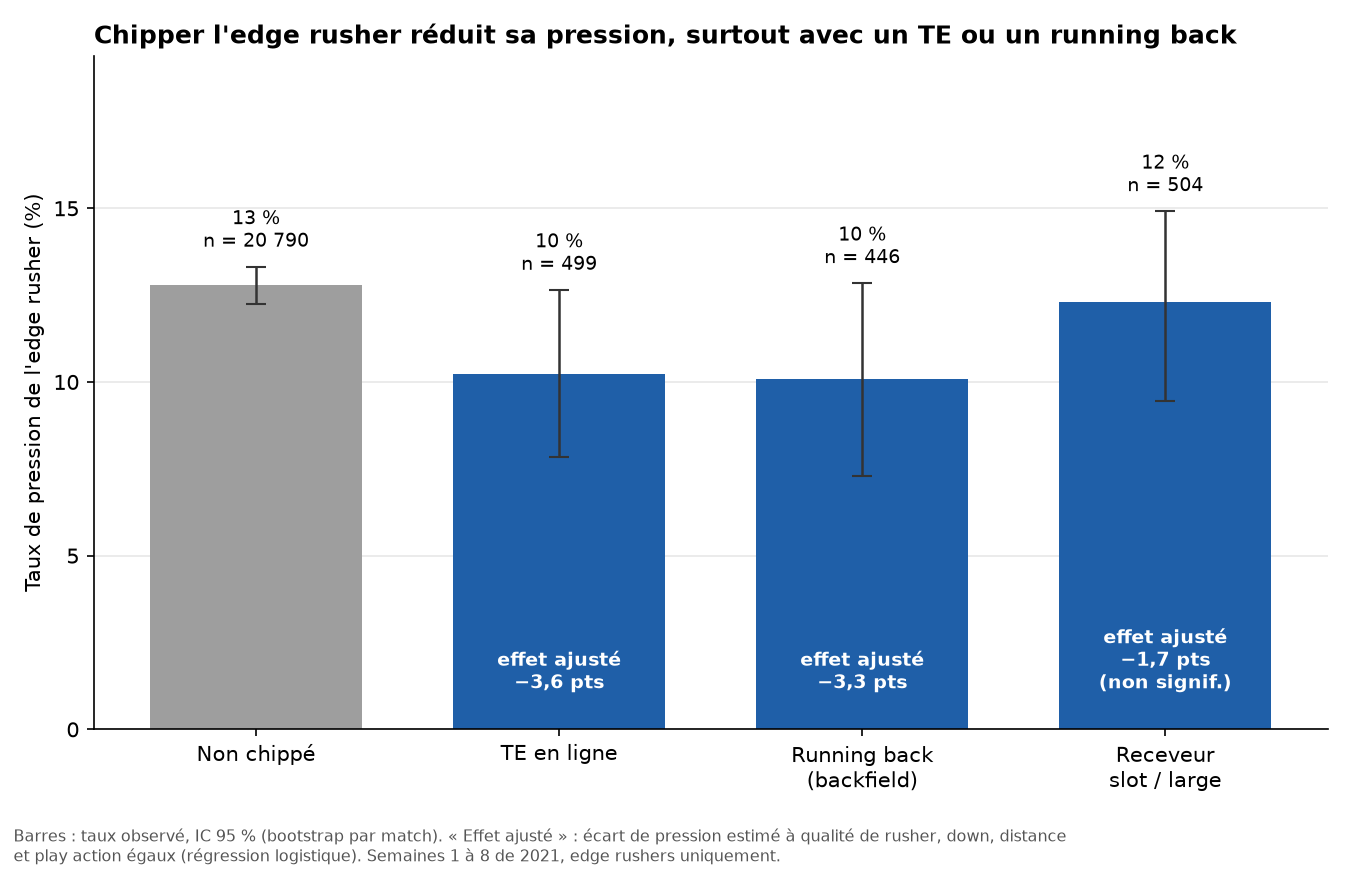
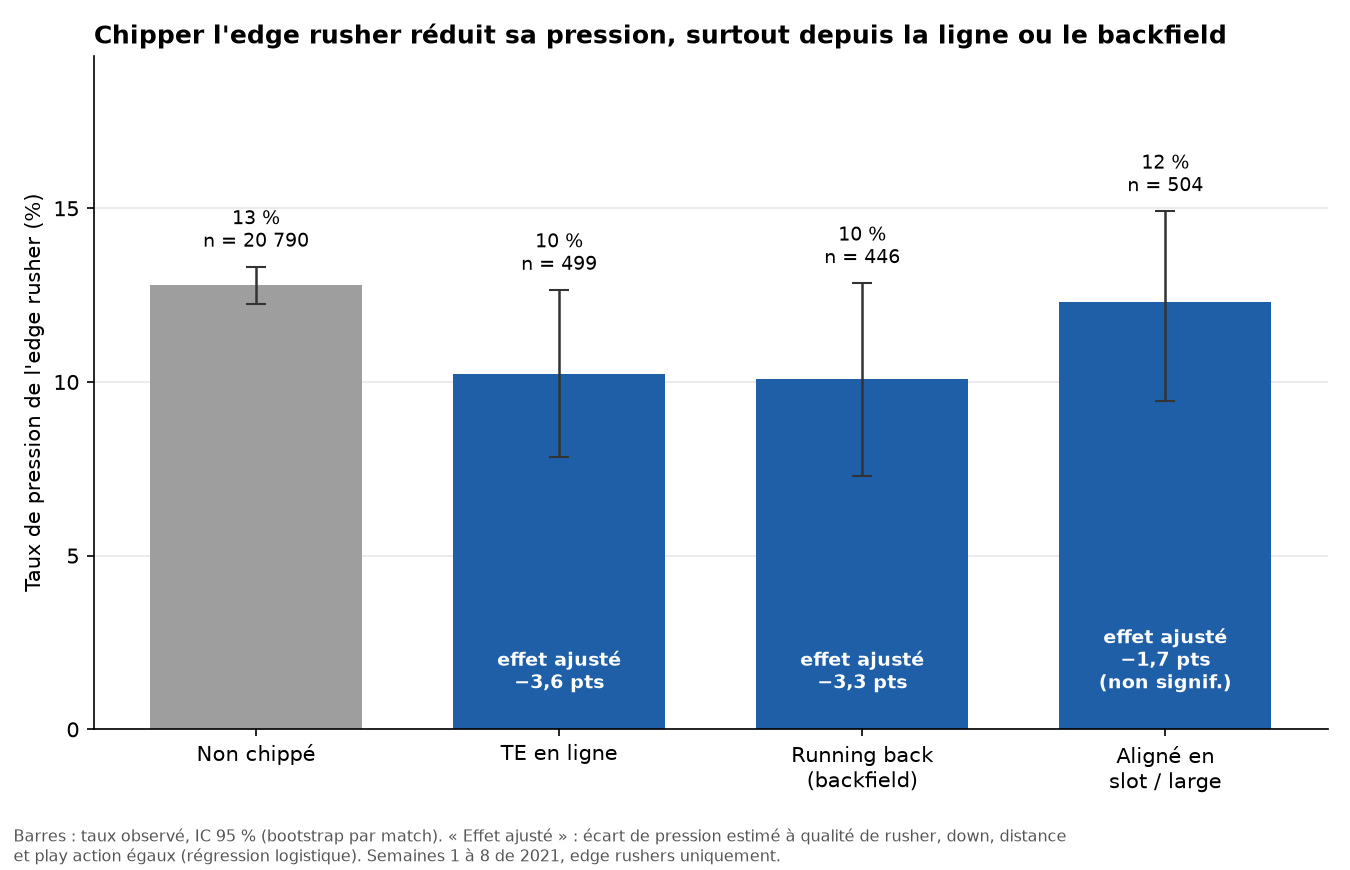
Branche A : « aligné en slot / large » au lieu de « receveur » (slot_wide = 302 TE, 86 RB, 123 WR), résultats régénérés

Changed region(s): [[0.5911, 0.031, 0.9333, 0.0621], [0.8089, 0.8379, 0.9022, 0.931]]

diff --git a/analysis/mecanique.py b/analysis/mecanique.py
@@ -206,7 +206,7 @@ def regression_duree(chips):
 DUR_BINS = [0, 0.3, 0.6, 1.0, np.inf]                      # ]a ; b] : 0,3 s tombe dans « ≤ 0,3 s »
 DUR_LABELS = ["≤ 0,3 s", "0,3 à 0,6 s", "0,6 à 1,0 s", "> 1,0 s"]
 TYPE_LABELS = {"none": "Non chippé", "inline_TE": "TE en ligne", "backfield": "Running back\n(backfield)",
-               "slot_wide": "Receveur\nslot / large"}
+               "slot_wide": "Aligné en\nslot / large"}
 GREY, BLUE, ORANGE = "#9e9e9e", "#1f5fa8", "#e07b00"
 SMALL_N = 30
 
@@ -296,7 +296,7 @@ def plot_type(edges, res1):
     ax.set_ylabel("Taux de pression de l'edge rusher (%)")
     ax.set_ylim(0, max(r.hi.max(), r.rate.max()) * 1.3)
     fr_axis(ax)
-    ax.set_title("Chipper l'edge rusher réduit sa pression, surtout avec un TE ou un running back",
+    ax.set_title("Chipper l'edge rusher réduit sa pression, surtout depuis la ligne ou le backfield",
                  fontsize=12, fontweight="bold", loc="left")
     fig.text(0.01, 0.01, "Barres : taux observé, IC 95 % (bootstrap par match). « Effet ajusté » : écart de pression "
              "estimé à qualité de rusher, down, distance\net play action égaux (régression logistique). "
@@ -393,8 +393,8 @@ def print_rates(title, r, extra=None):
 
 
 # ---------------------------------------------------------------- coût route, pression de l'action, rapport
-MD_TYPE = {"inline_TE": "TE en ligne", "backfield": "Running back (backfield)", "slot_wide": "Receveur slot / large"}
-COACH_TYPE = {"inline_TE": "le TE en ligne", "backfield": "le running back", "slot_wide": "le receveur du slot"}
+MD_TYPE = {"inline_TE": "TE en ligne", "backfield": "Running back (backfield)", "slot_wide": "Aligné en slot / large"}
+COACH_TYPE = {"inline_TE": "le TE en ligne", "backfield": "le running back", "slot_wide": "le joueur aligné en slot"}
 
 
 def route_cost(chips, by, cats):
@@ -456,7 +456,7 @@ def key_numbers(res1, r_type, res2, rc_dur):
 def write_report(res1, r_type, res2, robust, rc_type, rc_dur, pp, pp_overall, pp_spread, kn):
     RESULTS.mkdir(exist_ok=True)
     who = " ou ".join(kn["sig_types"]) if kn["sig_types"] else COACH_TYPE[kn["best"]]
-    coach = (f"Contre un edge rusher dangereux, faites chipper {who} plutôt qu'un receveur et demandez un "
+    coach = (f"Contre un edge rusher dangereux, faites chipper {who} plutôt qu'un joueur aligné en slot ou large et demandez un "
              f"contact de plus d'une seconde : sa pression passe de {fr(kn['mid'].pressure)} % à "
              f"{fr(kn['long'].pressure)} %, mais le joueur part en route à {fr(kn['long'].release, 2)} s : "
              f"c'est une lecture tardive (soupape), pas une première option.")
@@ -490,7 +490,7 @@ Généré par `python analysis/mecanique.py` (ne pas éditer à la main). Semain
 
 ## Figures
 
-- `figures/A_type.png` : pression de l'edge rusher selon le type de chip (TE, RB, receveur), avec l'effet ajusté.
+- `figures/A_type.png` : pression de l'edge rusher selon le type de chip (TE en ligne, backfield, aligné en slot ou large), avec l'effet ajusté.
 - `figures/A_duree.png` : le compromis, la pression baisse quand le chip dure, le départ en route recule.
 - `figures/A_quartile.png` : chippé contre non chippé, par niveau du rusher (Q4 = élite).
 

diff --git a/results/A.md b/results/A.md
@@ -10,11 +10,11 @@ Généré par `python analysis/mecanique.py` (ne pas éditer à la main). Semain
 
 ## Pour le coach
 
-Contre un edge rusher dangereux, faites chipper le TE en ligne ou le running back plutôt qu'un receveur et demandez un contact de plus d'une seconde : sa pression passe de 12,9 % à 8,5 %, mais le joueur part en route à 2,20 s : c'est une lecture tardive (soupape), pas une première option.
+Contre un edge rusher dangereux, faites chipper le TE en ligne ou le running back plutôt qu'un joueur aligné en slot ou large et demandez un contact de plus d'une seconde : sa pression passe de 12,9 % à 8,5 %, mais le joueur part en route à 2,20 s : c'est une lecture tardive (soupape), pas une première option.
 
 ## Figures
 
-- `figures/A_type.png` : pression de l'edge rusher selon le type de chip (TE, RB, receveur), avec l'effet ajusté.
+- `figures/A_type.png` : pression de l'edge rusher selon le type de chip (TE en ligne, backfield, aligné en slot ou large), avec l'effet ajusté.
 - `figures/A_duree.png` : le compromis, la pression baisse quand le chip dure, le départ en route recule.
 - `figures/A_quartile.png` : chippé contre non chippé, par niveau du rusher (Q4 = élite).
 
@@ -26,7 +26,7 @@ Non chippé : 12,8 % de pression (n = 20 790).
 |---|---|---|---|---|
 | TE en ligne | 499 | 10,2 % | −3,6 pts | 0,71 [0,53 ; 0,90] |
 | Running back (backfield) | 446 | 10,1 % | −3,3 pts | 0,72 [0,51 ; 0,97] |
-| Receveur slot / large | 504 | 12,3 % | −1,7 pts | 0,86 [0,65 ; 1,06] |
+| Aligné en slot / large | 504 | 12,3 % | −1,7 pts | 0,86 [0,65 ; 1,06] |
 
 Coût pour la route, par type de chip (chips avec contact détecté) :
 
@@ -34,7 +34,7 @@ Coût pour la route, par type de chip (chips avec contact détecté) :
 |---|---|---|---|---|
 | TE en ligne | 493 | 1,50 s | 16,5 % (n = 424) | 10,3 % |
 | Running back (backfield) | 441 | 2,20 s | 11,3 % (n = 382) | 10,4 % |
-| Receveur slot / large | 491 | 1,40 s | 14,5 % (n = 401) | 12,4 % |
+| Aligné en slot / large | 491 | 1,40 s | 14,5 % (n = 401) | 12,4 % |
 
 Coût pour la route, par durée du contact :
 
